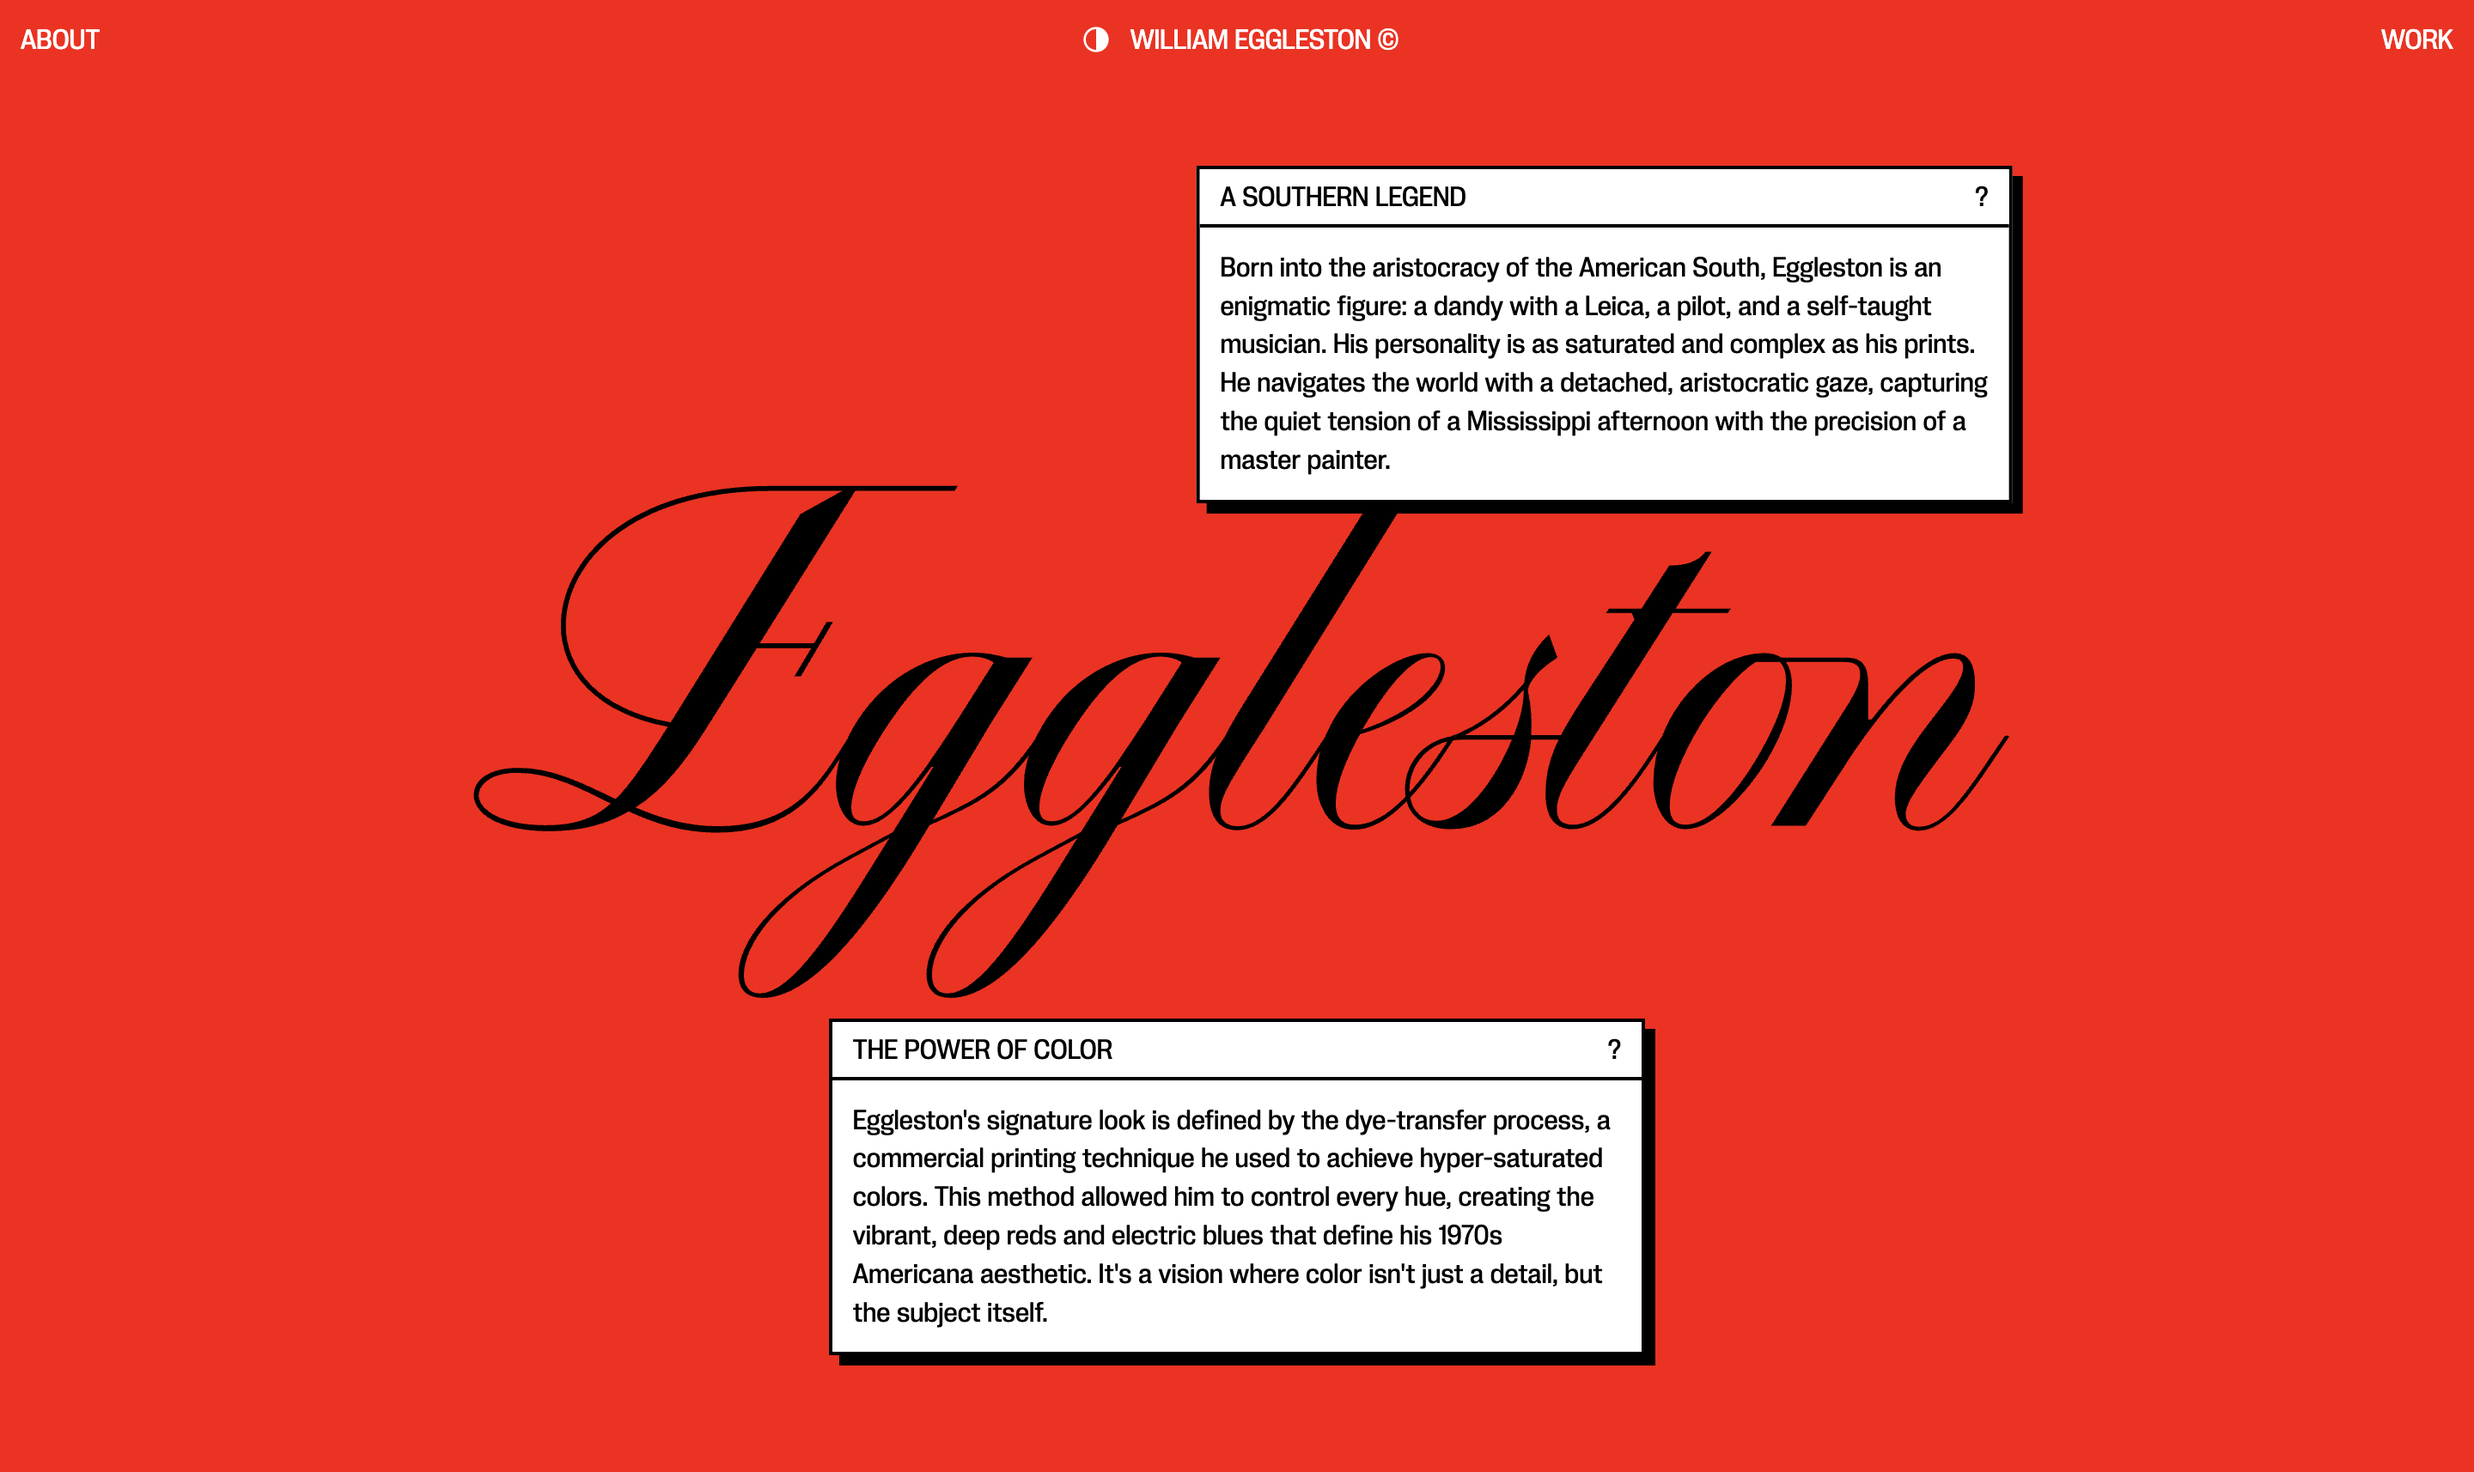
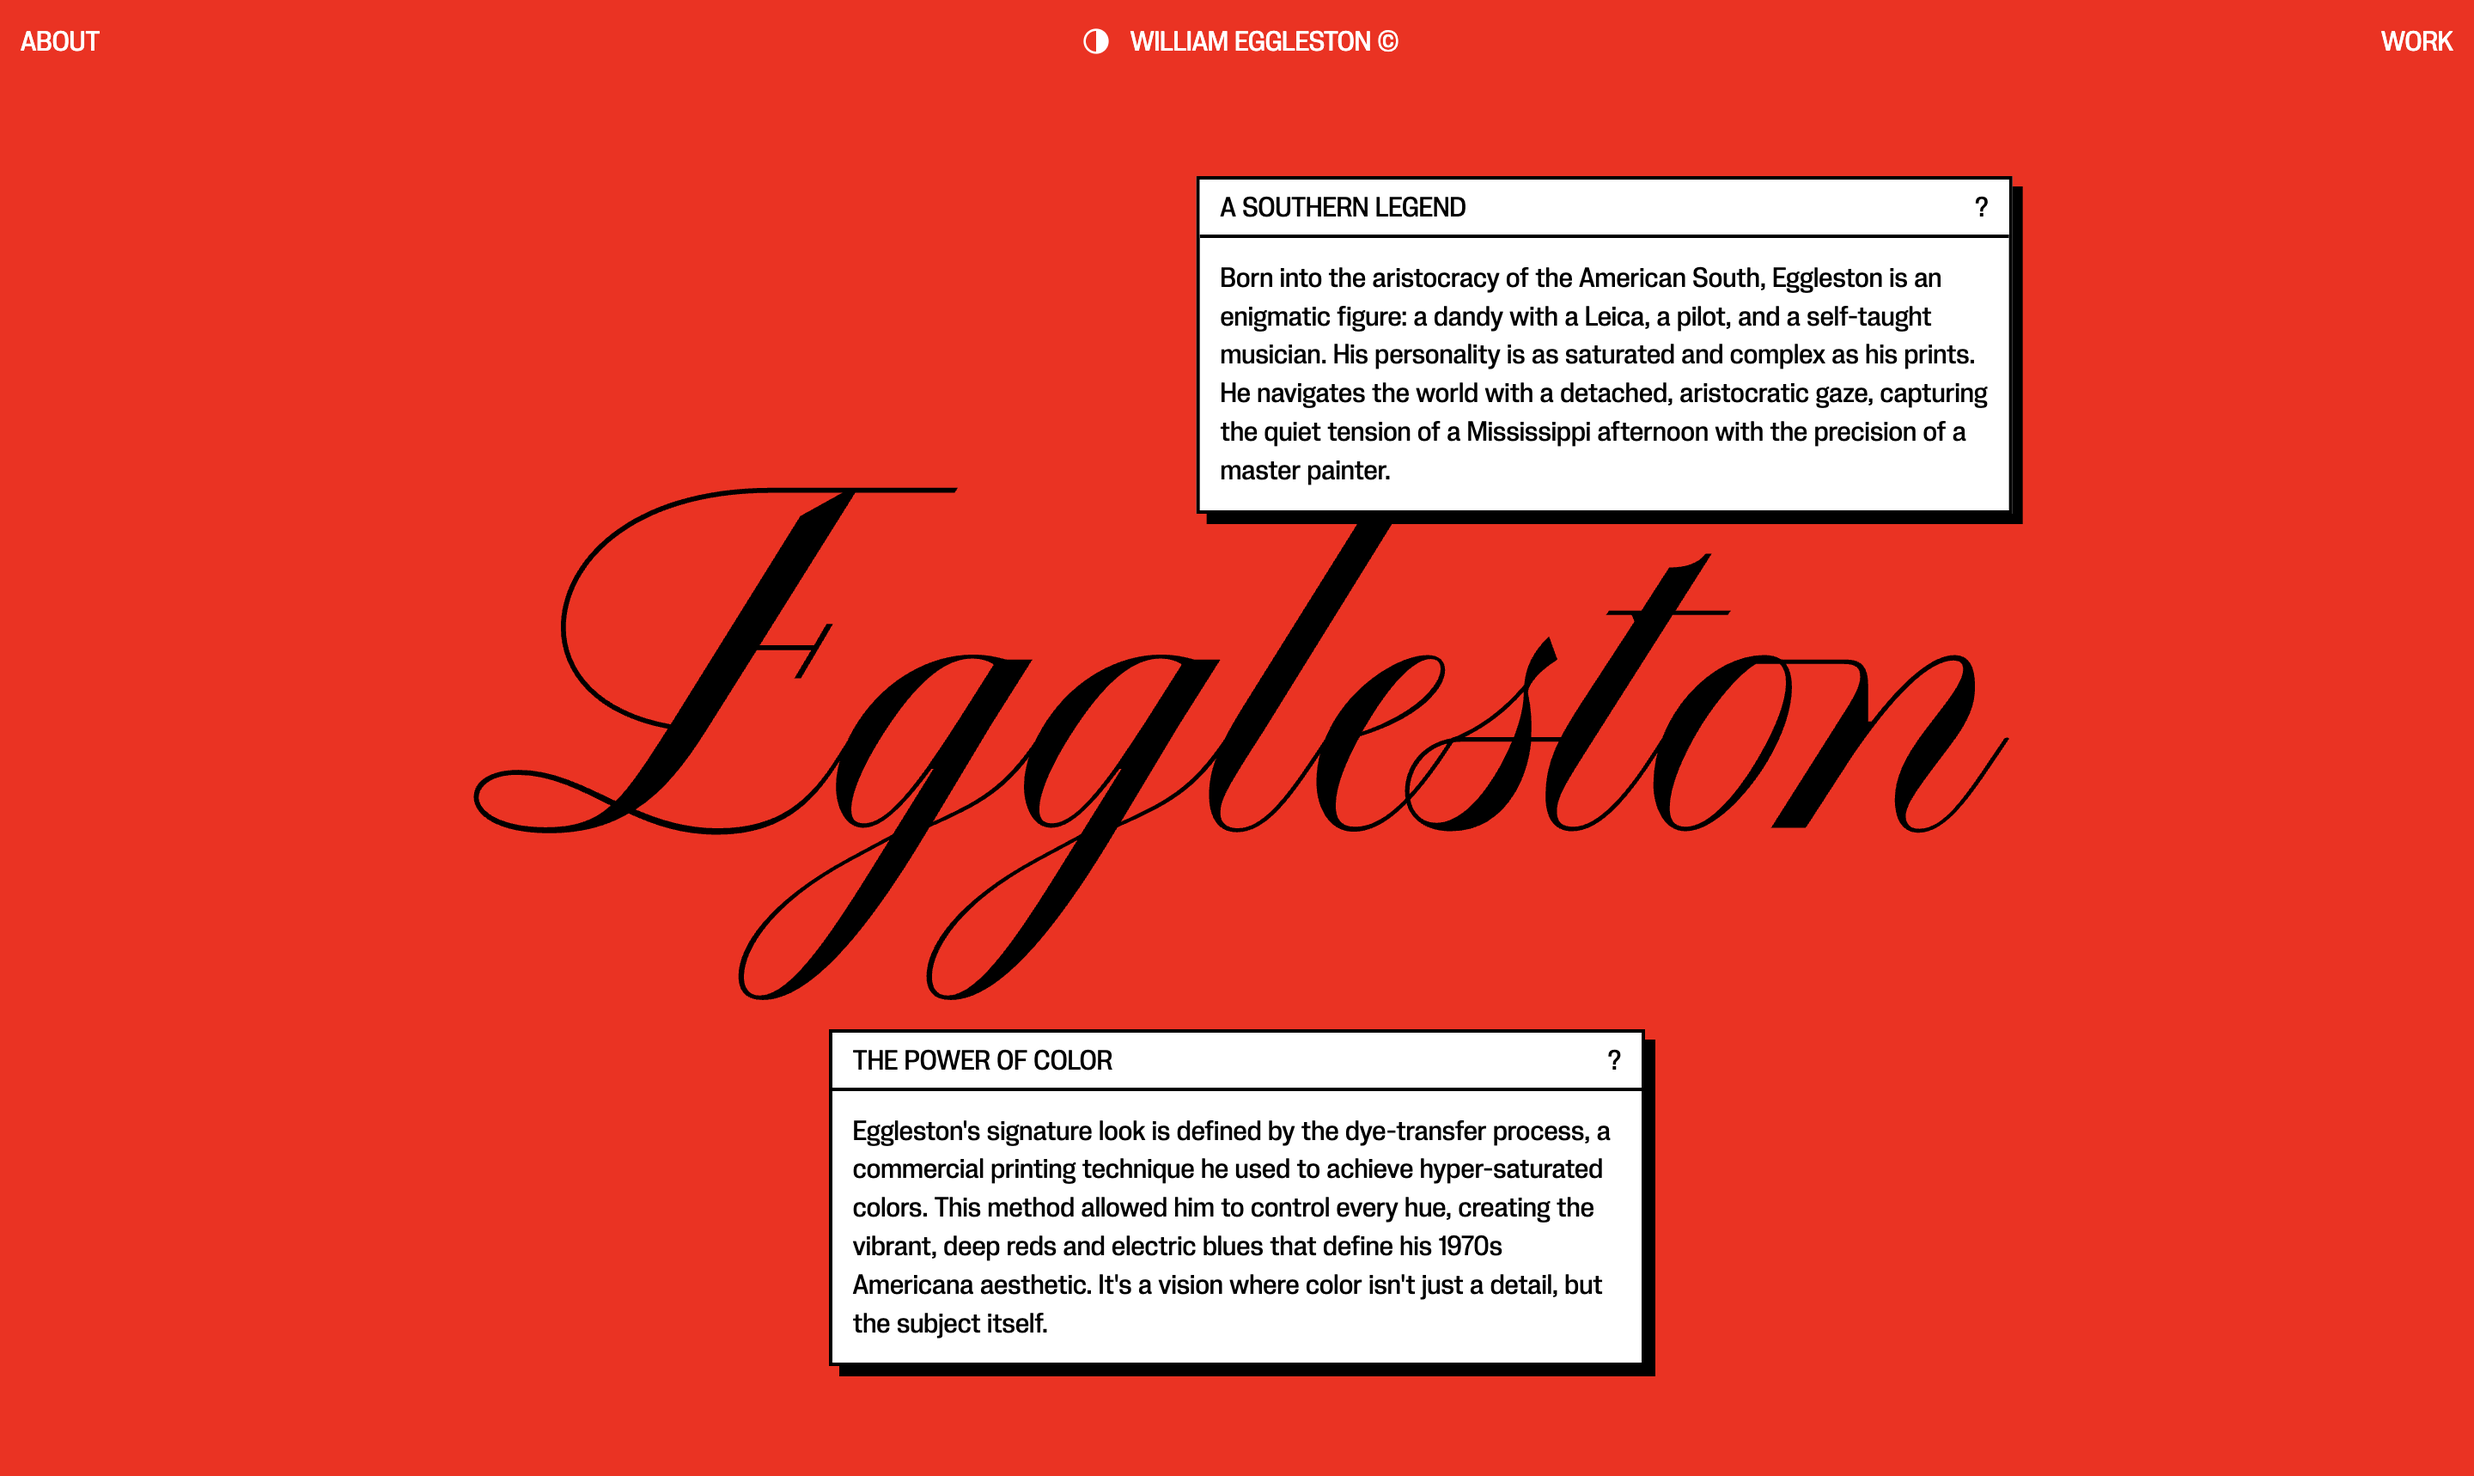
eggleston hover image

Changed region(s): [[0.3438, 0.6803, 0.6562, 0.9586], [0.4688, 0.0928, 0.8125, 0.3711], [0.5, 0.0, 0.5625, 0.0309]]

diff --git a/eggleston.html b/eggleston.html
@@ -75,22 +75,62 @@
                         Your browser does not support the video tag.
                     </video>
 
-                    <img class="gallery-image" src="assets/images/projects/eggleston/eggleston-00.png" alt="Eggleston Img 1">
-                    <img class="gallery-image" src="assets/images/projects/eggleston/eggleston-01.png" alt="Eggleston Img 2">
-                    <img class="gallery-image" src="assets/images/projects/eggleston/eggleston-02.png" alt="Eggleston Img 3">
-                    <img class="gallery-image" src="assets/images/projects/eggleston/eggleston-02a.png" alt="Eggleston Img 4">
-                    <img class="gallery-image" src="assets/images/projects/eggleston/eggleston-03.png" alt="Eggleston Img 5">
-                    <img class="gallery-image" src="assets/images/projects/eggleston/eggleston-04.png" alt="Eggleston Img 6">
-                    <img class="gallery-image" src="assets/images/projects/eggleston/eggleston-05.png" alt="Eggleston Img 7">
-                    <img class="gallery-image" src="assets/images/projects/eggleston/eggleston-06.png" alt="Eggleston Img 8">
-                    <img class="gallery-image" src="assets/images/projects/eggleston/eggleston-06a.png" alt="Eggleston Img 9">
-                    <img class="gallery-image" src="assets/images/projects/eggleston/eggleston-07.png" alt="Eggleston Img 10">
-                    <img class="gallery-image" src="assets/images/projects/eggleston/eggleston-07a.png" alt="Eggleston Img 11">
-                    <img class="gallery-image" src="assets/images/projects/eggleston/eggleston-08.png" alt="Eggleston Img 12">
-                    <img class="gallery-image" src="assets/images/projects/eggleston/eggleston-09.png" alt="Eggleston Img 13">
-                    <img class="gallery-image" src="assets/images/projects/eggleston/eggleston-09a.png" alt="Eggleston Img 14">
-                    <img class="gallery-image" src="assets/images/projects/eggleston/eggleston-10.png" alt="Eggleston Img 15">
-                    <img class="gallery-image" src="assets/images/projects/eggleston/eggleston-10a.png" alt="Eggleston Img 16">
+                    <div class="eggleston-hover-item">
+                        <img class="gallery-image" src="assets/images/projects/eggleston/eggleston-00.png" alt="Eggleston Img 1">
+                        <img class="gallery-image eggleston-cover-2" src="assets/images/projects/eggleston/eggleston-00b.png" alt="Eggleston Img 1 Hover">
+                    </div>
+                    <div class="eggleston-hover-item">
+                        <img class="gallery-image" src="assets/images/projects/eggleston/eggleston-01.png" alt="Eggleston Img 2">
+                        <img class="gallery-image eggleston-cover-2" src="assets/images/projects/eggleston/eggleston-01b.png" alt="Eggleston Img 2 Hover">
+                    </div>
+                    <div class="eggleston-hover-item">
+                        <img class="gallery-image" src="assets/images/projects/eggleston/eggleston-02.png" alt="Eggleston Img 3">
+                        <img class="gallery-image eggleston-cover-2" src="assets/images/projects/eggleston/eggleston-02b.png" alt="Eggleston Img 3 Hover">
+                    </div>
+                    <div class="eggleston-hover-item">
+                        <img class="gallery-image" src="assets/images/projects/eggleston/eggleston-03.png" alt="Eggleston Img 4">
+                        <img class="gallery-image eggleston-cover-2" src="assets/images/projects/eggleston/eggleston-03b.png" alt="Eggleston Img 5 Hover">
+                    </div>
+                    <div class="eggleston-hover-item">
+                        <img class="gallery-image" src="assets/images/projects/eggleston/eggleston-04.png" alt="Eggleston Img 5">
+                        <img class="gallery-image eggleston-cover-2" src="assets/images/projects/eggleston/eggleston-04b.png" alt="Eggleston Img 6 Hover">
+                    </div>
+                    <div class="eggleston-hover-item">
+                        <img class="gallery-image" src="assets/images/projects/eggleston/eggleston-05.png" alt="Eggleston Img 6">
+                        <img class="gallery-image eggleston-cover-2" src="assets/images/projects/eggleston/eggleston-05b.png" alt="Eggleston Img 7 Hover">
+                    </div>
+                    <div class="eggleston-hover-item">
+                        <img class="gallery-image" src="assets/images/projects/eggleston/eggleston-06.png" alt="Eggleston Img 7">
+                        <img class="gallery-image eggleston-cover-2" src="assets/images/projects/eggleston/eggleston-06b.png" alt="Eggleston Img 8 Hover">
+                    </div>
+                    <div class="eggleston-hover-item">
+                        <img class="gallery-image" src="assets/images/projects/eggleston/eggleston-07.png" alt="Eggleston Img 8">
+                        <img class="gallery-image eggleston-cover-2" src="assets/images/projects/eggleston/eggleston-07b.png" alt="Eggleston Img 8 Hover">
+                    </div>
+                    <div class="eggleston-hover-item">
+                        <img class="gallery-image" src="assets/images/projects/eggleston/eggleston-08.png" alt="Eggleston Img 9">
+                        <img class="gallery-image eggleston-cover-2" src="assets/images/projects/eggleston/eggleston-08b.png" alt="Eggleston Img 9 Hover">
+                    </div>
+                    <div class="eggleston-hover-item">
+                        <img class="gallery-image" src="assets/images/projects/eggleston/eggleston-09.png" alt="Eggleston Img 10">
+                        <img class="gallery-image eggleston-cover-2" src="assets/images/projects/eggleston/eggleston-09b.png" alt="Eggleston Img 10 Hover">
+                    </div>
+                    <div class="eggleston-hover-item">
+                        <img class="gallery-image" src="assets/images/projects/eggleston/eggleston-10.png" alt="Eggleston Img 11">
+                        <img class="gallery-image eggleston-cover-2" src="assets/images/projects/eggleston/eggleston-10b.png" alt="Eggleston Img 11 Hover">
+                    </div>
+                    <div class="eggleston-hover-item">
+                        <img class="gallery-image" src="assets/images/projects/eggleston/eggleston-11.png" alt="Eggleston Img 12">
+                        <img class="gallery-image eggleston-cover-2" src="assets/images/projects/eggleston/eggleston-11b.png" alt="Eggleston Img 12 Hover">
+                    </div>
+                    <div class="eggleston-hover-item">
+                        <img class="gallery-image" src="assets/images/projects/eggleston/eggleston-12.png" alt="Eggleston Img 13">
+                        <img class="gallery-image eggleston-cover-2" src="assets/images/projects/eggleston/eggleston-12b.png" alt="Eggleston Img 13 Hover">
+                    </div>
+                    <div class="eggleston-hover-item">
+                        <img class="gallery-image" src="assets/images/projects/eggleston/eggleston-13.png" alt="Eggleston Img 14">
+                        <img class="gallery-image eggleston-cover-2" src="assets/images/projects/eggleston/eggleston-13b.png" alt="Eggleston Img 14 Hover">
+                    </div>
                     <div class="project-nav">
                         <a href="brutalism.html" class="nav-prev">Prev</a>
                         

diff --git a/style.css b/style.css
@@ -637,6 +637,9 @@ footer {
 /* Effetto hover Eggleston cover */
 .eggleston-hover-item {
     position: relative;
+    display: block;
+    width: 100%;
+    margin-bottom: 15px;
 }
 
 .eggleston-cover-2 {
@@ -644,6 +647,7 @@ footer {
     top: 0;
     left: 0;
     opacity: 0;
+    transition: opacity 0.3s ease;
 }
 
 .eggleston-hover-item:hover .eggleston-cover-2 {
